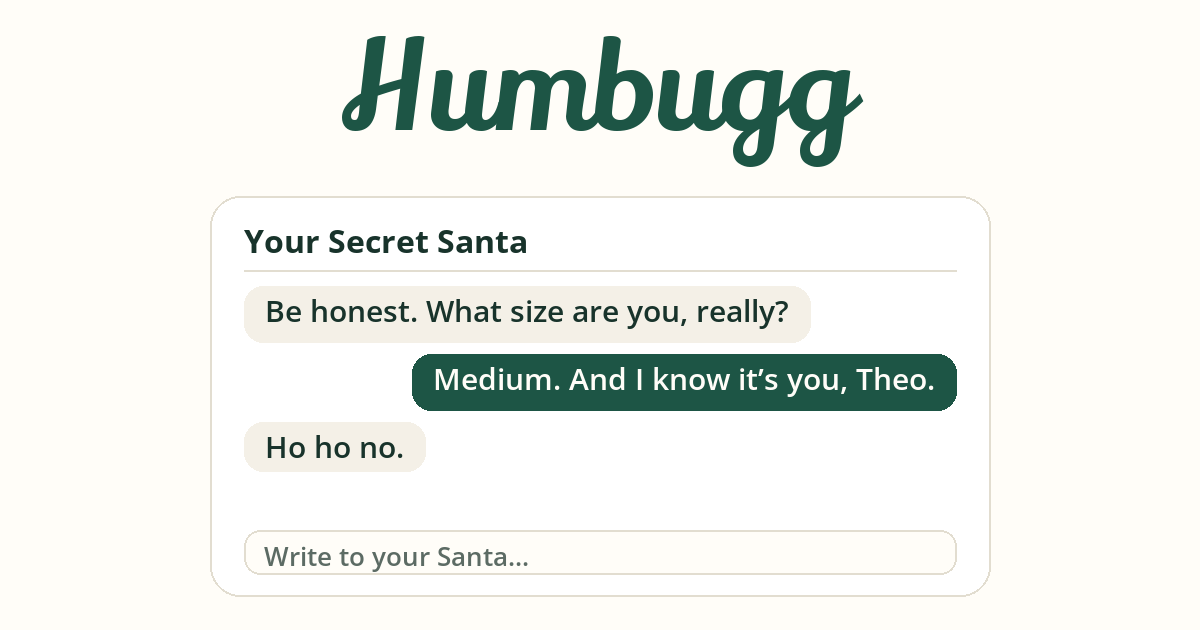
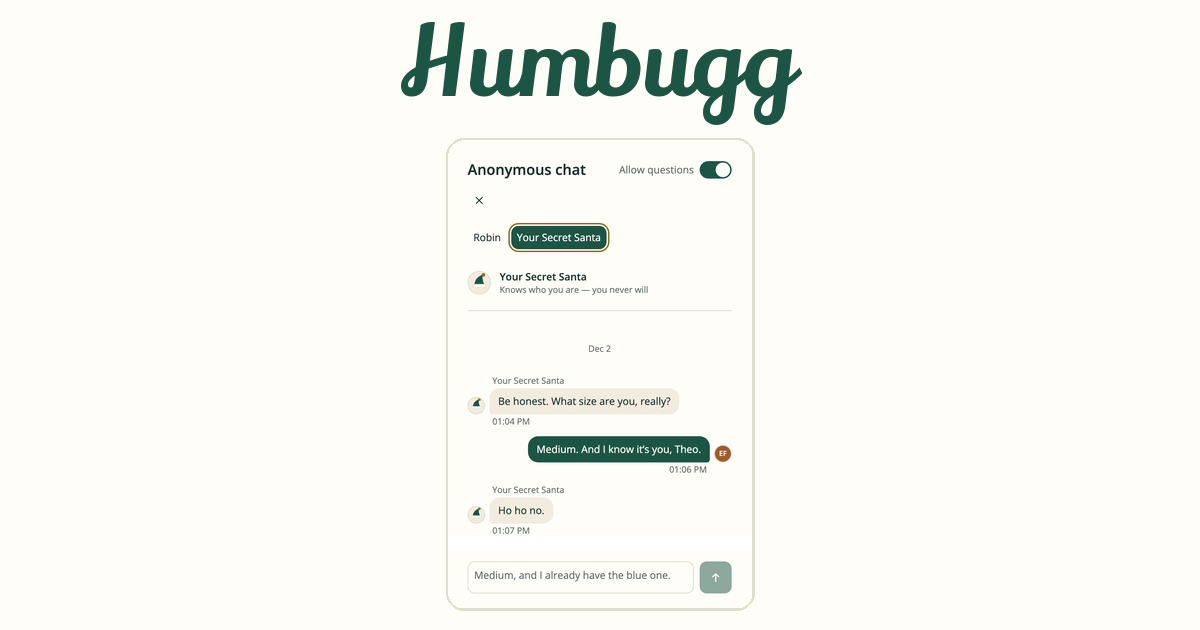
humbugg: the social preview shows the real chat, not a drawing of it (#729)
Maintainer review of #728: the drawn card did not look like the product.
The chat is now a screenshot of the actual rail from the stubbed app export
— header, Allow-questions toggle, tabs, who-row, bubbles with the hat
avatars, composer — with three messages seeded through the same routes the
questions spec stubs. docs/marketing.md records how to redo it.

diff --git a/humbugg/docs/marketing.md b/humbugg/docs/marketing.md
@@ -69,8 +69,14 @@ The SVGs embed the font, so they render identically without it installed.
 Colours: green `#1d5545`, cream `#fffdf8`, ink `#18332b`. The marketing site's
 social preview (`marketing/app/assets/og.png`, 1200×630) is the wordmark as the
 heading with the anonymous chat under it, and nothing else (maintainer's call,
-2026-09-15: no mark beside the wordmark, no headline, no footer line). The
-card-game image it replaced was a generated mock and is gone.
+2026-09-15: no mark beside the wordmark, no headline, no footer line). **The chat
+is a screenshot of the real rail, not a drawing**: the app's stubbed Playwright
+export (`humbugg/app`, `npx playwright test`) with a drawn exchange stubbed the
+way `e2e/questions.spec.ts` does, three messages seeded, the recipient's
+"Your Secret Santa" conversation open, viewport 1440×680 at 2×, the rail
+cropped from the page and the empty stretch above the composer removed. Redo
+it the same way when the chat UI changes. The card-game image it replaced was
+a generated mock and is gone.
 
 ## Where it is said
 
